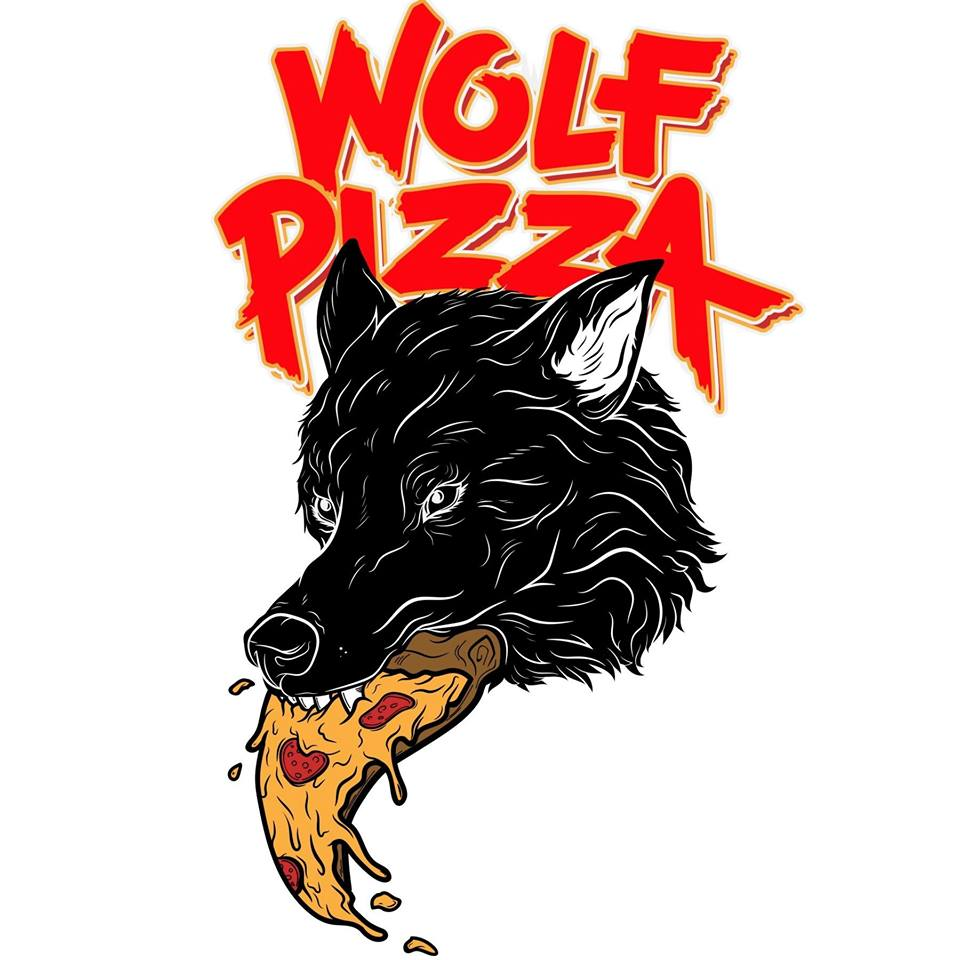
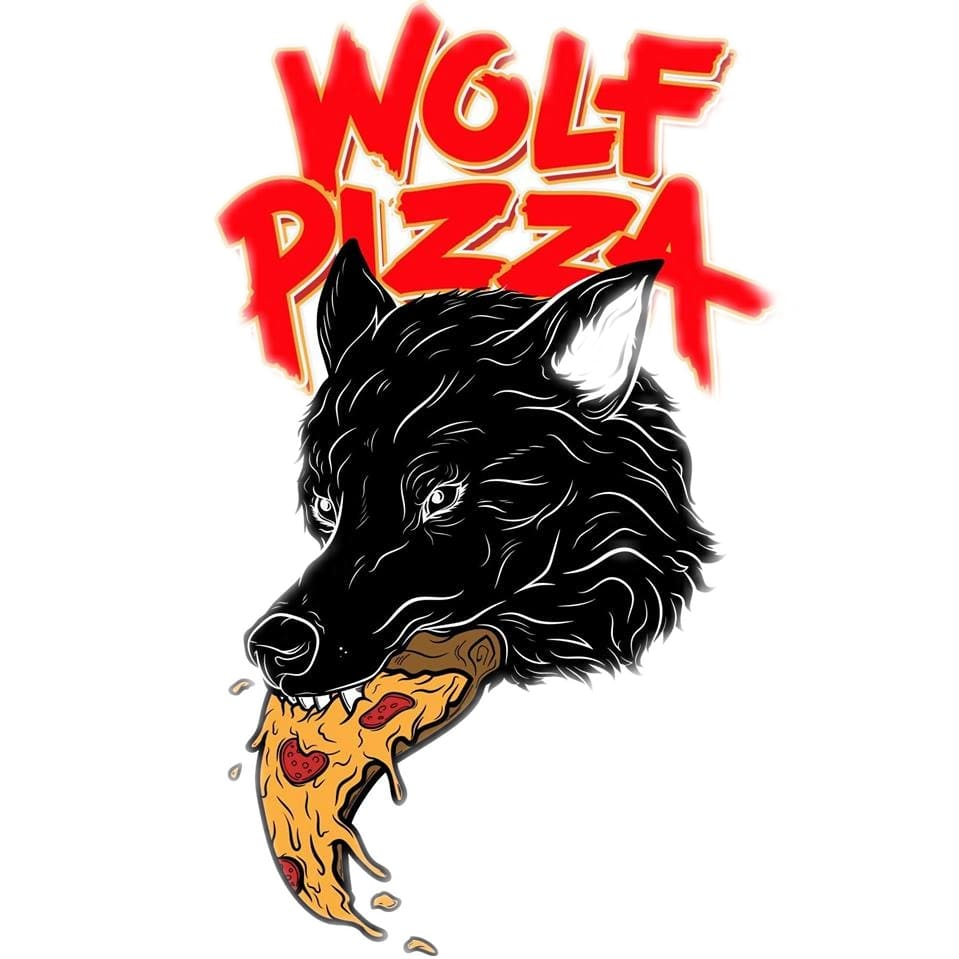
Provato ad aggiungere immagine in spazio vuoto

diff --git a/Progetto/src/elementiGrafici/graphicInterfaceStyle.css b/Progetto/src/elementiGrafici/graphicInterfaceStyle.css
@@ -21,3 +21,10 @@
     -fx-background-color: linear-gradient(#1e90ff,  #87cefa);
     -fx-background-size: 600 500;
 }
+#pane{
+    -fx-background-image: url("wolf_pizza.jpg");
+    -fx-background-repeat: stretch;
+    -fx-background-size: 500 200;
+    -fx-background-position: center center;
+    -fx-effect: dropshadow(three-pass-box, black, 30, 0.5, 0, 0);
+}

diff --git a/Progetto/src/GraphicInterface.java b/Progetto/src/GraphicInterface.java
@@ -41,7 +41,7 @@ public class GraphicInterface extends Application {
 
 		StackPane spazioPane = new StackPane();
 		spazioPane.setMinSize(600, 150);
-
+		spazioPane.setId("pane");
 
 		// Definisco i bottoni presenti nella pagina
 
@@ -89,7 +89,7 @@ public class GraphicInterface extends Application {
 		layout.getStyleClass().add("layout");
 
 		scene1 = new Scene(layout, 600, 600);
-		scene1.getStylesheets().add("elementiGrafici/graphicInterfaceStyle.css");
+		scene1.getStylesheets().addAll(this.getClass().getResource("elementiGrafici/graphicInterfaceStyle.css").toExternalForm());
 		window.setResizable(false);
 		window.setScene(scene1);
 		window.setTitle("Wolf of Pizza");
